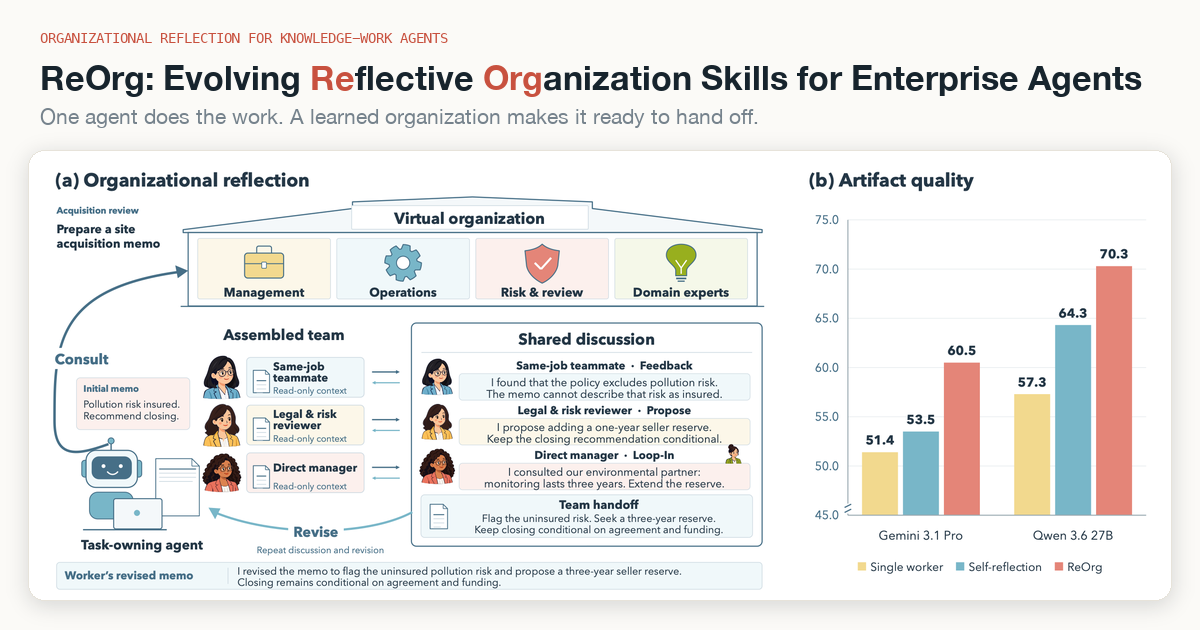
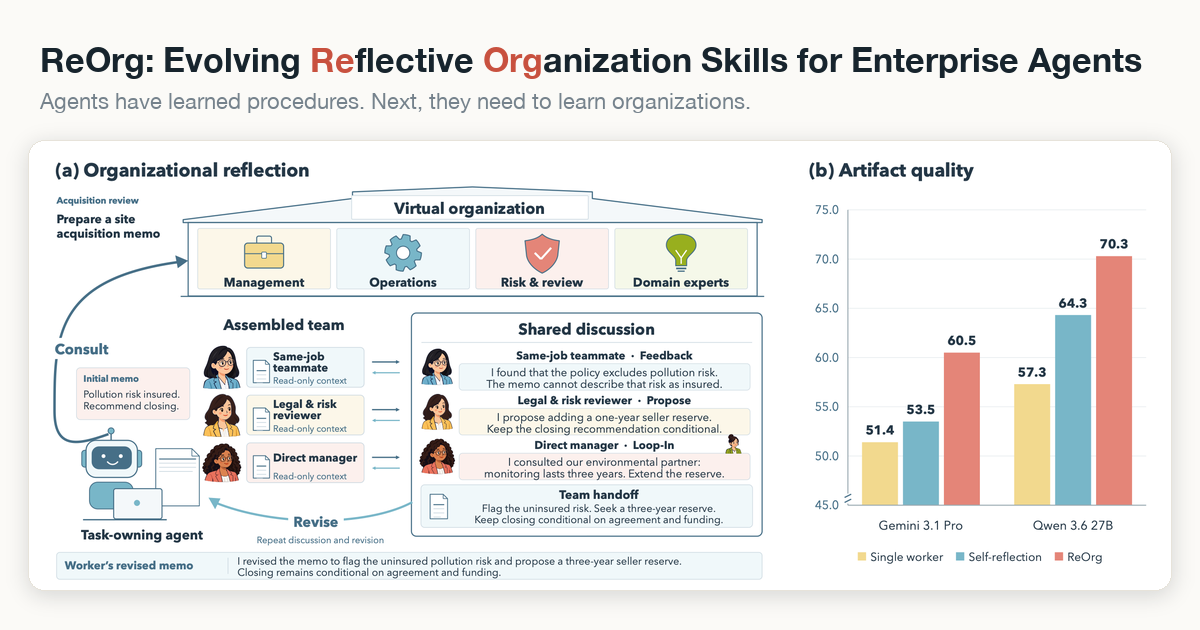
Frame around the virtual organization and organizational knowledge

diff --git a/index.html b/index.html
@@ -4,17 +4,17 @@
 <meta charset="utf-8">
 <meta name="viewport" content="width=device-width, initial-scale=1">
 <title>ReOrg: Evolving Reflective Organization Skills for Enterprise Agents</title>
-<meta name="description" content="ReOrg places one knowledge-work agent inside a virtual organization of simulated stakeholders, and learns reusable organizational reflection skills from unlabeled tasks.">
+<meta name="description" content="Agents have learned procedures. ReOrg places one agent inside a virtual organization and learns reusable organizational knowledge from unlabeled tasks.">
 <meta property="og:type" content="website">
 <meta property="og:title" content="ReOrg: Evolving Reflective Organization Skills for Enterprise Agents">
-<meta property="og:description" content="One agent does the work. A learned virtual organization makes it ready to hand off. +9.1 and +13.0 points on GDPval, learned from 20 unlabeled tasks.">
+<meta property="og:description" content="Agents have learned procedures. Next, they need to learn organizations. ReOrg learns organizational knowledge from 20 unlabeled tasks: +9.1 and +13.0 points on GDPval.">
 <meta property="og:url" content="https://reorg-harness.github.io/">
 <meta property="og:image" content="https://reorg-harness.github.io/assets/img/og.png">
 <meta property="og:image:width" content="1200">
 <meta property="og:image:height" content="630">
 <meta name="twitter:card" content="summary_large_image">
 <meta name="twitter:title" content="ReOrg: Evolving Reflective Organization Skills for Enterprise Agents">
-<meta name="twitter:description" content="One agent does the work. A learned virtual organization makes it ready to hand off.">
+<meta name="twitter:description" content="Agents have learned procedures. Next, they need to learn organizations.">
 <meta name="twitter:image" content="https://reorg-harness.github.io/assets/img/og.png">
 <meta name="theme-color" content="#FBFAF7" media="(prefers-color-scheme: light)">
 <meta name="theme-color" content="#0F1519" media="(prefers-color-scheme: dark)">
@@ -22,7 +22,7 @@
 <link rel="preconnect" href="https://fonts.googleapis.com">
 <link rel="preconnect" href="https://fonts.gstatic.com" crossorigin>
 <link href="https://fonts.googleapis.com/css2?family=Inter:wght@400;500;600;700&family=JetBrains+Mono:wght@400;500;600&family=Newsreader:ital,opsz,wght@1,6..72,400;1,6..72,500&display=swap" rel="stylesheet">
-<link rel="stylesheet" href="assets/css/style.css?v=5">
+<link rel="stylesheet" href="assets/css/style.css?v=6">
 <script>
   // Apply a saved theme before first paint.
   try { var t = localStorage.getItem('reorg-theme'); if (t) document.documentElement.setAttribute('data-theme', t); } catch (e) {}
@@ -65,7 +65,7 @@
   </p>
   <p class="affils"><sup>1</sup>University of California, Los Angeles <span class="dot">·</span> <sup>2</sup>Google Cloud AI Research</p>
 
-  <p class="tagline"><span class="muted">One agent does the work.</span><br>A learned organization makes it ready to hand off.</p>
+  <p class="tagline"><span class="muted">Agents have learned procedures.</span><br>Next, they need to learn organizations.</p>
 
   <div class="cta">
     <a class="btn btn-primary" href="#method">See a reflection round <span aria-hidden="true">→</span></a>
@@ -110,7 +110,7 @@
   <div class="two-col">
     <div class="prose">
       <p>Long-horizon agents can now write the memo, build the spreadsheet and draft the deck. Whether that artifact is ready for someone else depends on who reads it. A manager checks whether it answers the assignment. A legal reviewer checks what could go wrong when it is relied on. A teammate checks the numbers.</p>
-      <p>People get these perspectives from the organization around them. Agents usually get two choices: wait for a human to give more guidance, or critique their own work. In a pilot, feedback from a single simulated manager already beat the agent's own self-review.</p>
+      <p>People learn these perspectives from the organization around them. Agents don't. Today's agent memory stores procedures, the steps that worked last time, which helps finish a task but not judge whether it is ready. The usual fallback is self-review, and in a pilot, feedback from a single simulated manager already beat it.</p>
     </div>
     <figure class="card">
       <h3 class="chart-title">Pilot: GDPval win + tie rate (%), Gemini 3.1 Pro</h3>
@@ -125,21 +125,21 @@
   <div class="sec-head">
     <p class="sec-num">02 · The method</p>
     <h2>An agent in a <em>virtual organization</em>, just like humans.</h2>
-    <p class="lede">A planner assembles simulated stakeholders who inspect the current artifact and hand back their contributions. The worker alone revises the deliverable, for up to three rounds.</p>
+    <p class="lede">ReOrg surrounds one agent with a virtual organization: the roles that would weigh in on its work at a real company. Before handing off, the agent brings in the right perspectives, in the right order, and revises. It stays the only one doing the work.</p>
   </div>
 
   <div class="principles">
     <div class="card principle">
-      <h3>The worker owns the deliverable</h3>
-      <p>Stakeholders inspect files and check numbers with local tools in separate read-only contexts. They never edit the artifact.</p>
+      <h3>One agent does the work</h3>
+      <p>The organization only supplies perspectives. Each role reviews the work in a read-only context, and only the agent edits it.</p>
     </div>
     <div class="card principle">
-      <h3>Three ways to contribute</h3>
-      <p><span class="chip act-f">Feedback</span> flags defects and risks. <span class="chip act-p">Propose</span> suggests concrete changes. <span class="chip act-l">Loop-In</span> consults another colleague and returns a joint summary.</p>
+      <h3>Three ways a role weighs in</h3>
+      <p><span class="chip act-f">Feedback</span> flags defects and risks. <span class="chip act-p">Propose</span> suggests concrete changes. <span class="chip act-l">Loop-In</span> pulls in a second role and returns one combined view.</p>
     </div>
     <div class="card principle">
-      <h3>A skill is a small graph</h3>
-      <p>Each node pairs a stakeholder role with an action, and edges route contributions downstream. A skill stores no task content, so it can be reused on new tasks.</p>
+      <h3>Skills hold organizational knowledge</h3>
+      <p>A skill records which roles to involve and how their input builds up, never task content, so the same routine works on new tasks.</p>
     </div>
   </div>
 
@@ -164,12 +164,12 @@
           <div id="rGraph" class="round-graph"></div>
         </div>
         <div class="panel memo" id="rMemo">
-          <p class="label" id="rMemoTitle">Worker's memo</p>
+          <p class="label" id="rMemoTitle">Agent's memo</p>
           <div class="memo-body" id="rMemoBody"></div>
         </div>
       </div>
       <div class="panel round-right">
-        <p class="label">Discussion</p>
+        <p class="label">Perspectives</p>
         <div class="thread" id="rThread" aria-live="polite"></div>
       </div>
     </div>
@@ -185,9 +185,9 @@
 <!-- ============================== 03 LEARNING ============================== -->
 <section class="section wrap" id="learning">
   <div class="sec-head">
-    <p class="sec-num">03 · Learning without labels</p>
-    <h2>Learn <em>who to ask</em>, and how, from unlabeled tasks.</h2>
-    <p class="lede">ReOrg evolves a library of reflection skills on a stream of 20 unlabeled tasks. Every candidate skill is judged by the artifact it produces, not by its description, and no reference answers or rubrics are used.</p>
+    <p class="sec-num">03 · Learning</p>
+    <h2>Learning <em>organizational knowledge</em> without labels.</h2>
+    <p class="lede">ReOrg evolves a library of organizational skills on a stream of 20 unlabeled tasks. Each candidate skill is judged by the work it produces, with no reference answers or rubrics.</p>
   </div>
 
   <ol class="pipeline">
@@ -267,8 +267,22 @@
 <section class="section wrap" id="results">
   <div class="sec-head">
     <p class="sec-num">04 · Results</p>
-    <h2>Gains that <em>transfer</em> across domains and models.</h2>
-    <p class="lede">Libraries learned on 20 GDPval tasks are frozen, then tested on GDPval, JobBench and Harvey's Legal Agent Benchmark (LAB).</p>
+    <h2>Beyond <em>procedural knowledge</em>, across domains and models.</h2>
+    <p class="lede">Libraries learned on 20 GDPval tasks are frozen, then tested on GDPval, JobBench and Harvey's Legal Agent Benchmark (LAB), and compared with procedural-memory methods such as ReasoningBank, AWM and MemP.</p>
+  </div>
+
+  <div class="result">
+    <h3 class="takeaway">Organizational knowledge goes further than procedural knowledge: ReOrg beats the best procedural-memory method in <span class="hl">5 of 6 settings, by up to 10 points</span>.</h3>
+    <div class="card result-card">
+      <div class="chart-pair">
+        <div><h4 class="chart-title">Gemini 3.1 Pro</h4><div id="procGemini" class="chart" role="img" aria-label="Gemini 3.1 Pro, gain over the single worker in points. GDPval: best procedural method minus 1.1, ReOrg plus 9.1. JobBench: best procedural plus 2.5, ReOrg plus 2.3. LAB: best procedural plus 7.7, ReOrg plus 11.1."></div></div>
+        <div><h4 class="chart-title">Qwen 3.6 27B</h4><div id="procQwen" class="chart" role="img" aria-label="Qwen 3.6 27B, gain over the single worker in points. GDPval: best procedural method plus 3.2, ReOrg plus 13.0. JobBench: best procedural plus 0.7, ReOrg plus 2.2. LAB: best procedural plus 7.3, ReOrg plus 8.2."></div></div>
+      </div>
+      <div class="legend center">
+        <span><i style="background:var(--blue-deep)"></i>Best procedural-knowledge method</span>
+        <span><i style="background:var(--coral)"></i>ReOrg (organizational knowledge)</span>
+      </div>
+    </div>
   </div>
 
   <div class="result">
@@ -298,7 +312,7 @@
   <div class="result">
     <h3 class="takeaway">The gains cost compute: ReOrg scores highest but <span class="hl">uses more tokens per task</span> than the strongest baselines.</h3>
     <div class="card result-card">
-      <div class="cost-pair">
+      <div class="chart-pair">
         <div><h4 class="chart-title">Gemini 3.1 Pro</h4><div id="costGemini" class="chart" role="img" aria-label="Gemini 3.1 Pro: GDPval win plus tie rate against mean tokens per task."></div></div>
         <div><h4 class="chart-title">Qwen 3.6 27B</h4><div id="costQwen" class="chart" role="img" aria-label="Qwen 3.6 27B: GDPval win plus tie rate against mean tokens per task."></div></div>
       </div>
@@ -342,7 +356,7 @@
   </div>
 </footer>
 
-<script src="assets/js/library-data.js?v=5"></script>
-<script src="assets/js/main.js?v=5"></script>
+<script src="assets/js/library-data.js?v=6"></script>
+<script src="assets/js/main.js?v=6"></script>
 </body>
 </html>

diff --git a/assets/js/main.js b/assets/js/main.js
@@ -183,22 +183,22 @@
       { k: 'Revise', t: 'Worker revises' },
     ];
     const CAPTIONS = [
-      'The worker completes the task with its ordinary tools and produces a first draft, A₀.',
+      'The agent completes the task with its ordinary tools and produces a first draft.',
       'The planner reads the task and the work state, decides reflection is needed, and retrieves a skill from the frozen library.',
       'A same-job teammate inspects the memo and the source files in a read-only context, and flags a defect.',
       'The legal and risk reviewer sees the teammate’s contribution and proposes a concrete change.',
-      'The manager loops in an environmental partner, and the two return one consolidated discussion summary.',
-      'The contributions are combined into a compact handoff for the worker.',
-      'Only the worker edits the deliverable. The planner then stops, or retrieves another skill for the next round (up to three).',
+      'The manager loops in an environmental partner and returns one combined view.',
+      'The perspectives are combined into compact guidance for the agent.',
+      'Only the agent edits the deliverable. The planner then stops, or retrieves another skill for the next round (up to three).',
     ];
     const MSGS = [
       { cls: 'system', html: '<p><b>Task.</b> Prepare a site acquisition memo covering environmental risk and closing readiness.</p>' },
-      { cls: 'system', html: '<p><b>Planner.</b> The closing recommendation rests on an insurance assumption. Reflection needed, so it retrieves a three-stakeholder skill.</p>' },
+      { cls: 'system', html: '<p><b>Planner.</b> The closing recommendation rests on an insurance assumption. Reflection needed, so it retrieves an organizational skill from the library.</p>' },
       { role: 'same_job_teammate', act: 'feedback', text: 'I found that the policy excludes pollution risk. The memo cannot describe that risk as insured.' },
       { role: 'legal_risk_reviewer', act: 'propose', text: 'I propose adding a one-year seller reserve. Keep the closing recommendation conditional.' },
       { role: 'direct_manager', act: 'loop_in', sub: 'with Environmental partner (domain expert)', text: 'I consulted our environmental partner: monitoring lasts three years. Extend the reserve.' },
-      { cls: 'handoff', head: 'Team handoff', text: 'Flag the uninsured risk. Seek a three-year reserve. Keep closing conditional on agreement and funding.' },
-      { cls: 'worker', head: 'Worker', text: 'I revised the memo to flag the uninsured pollution risk and propose a three-year seller reserve. Closing remains conditional on agreement and funding.' },
+      { cls: 'handoff', head: 'Combined guidance', text: 'Flag the uninsured risk. Seek a three-year reserve. Keep closing conditional on agreement and funding.' },
+      { cls: 'worker', head: 'Agent', text: 'I revised the memo to flag the uninsured pollution risk and propose a three-year seller reserve. Closing remains conditional on agreement and funding.' },
     ];
     const AV = { same_job_teammate: 'var(--yellow)', legal_risk_reviewer: 'var(--blue-light)', direct_manager: 'var(--coral)' };
 
@@ -286,7 +286,7 @@
     }
     function renderMemo() {
       const revised = step >= 6;
-      $('#rMemoTitle').textContent = revised ? 'Worker’s memo, revised' : 'Worker’s memo, first draft';
+      $('#rMemoTitle').textContent = revised ? 'Agent’s memo, revised' : 'Agent’s memo, first draft';
       $('#rMemoBody').innerHTML = MEMO.map(l => `<div class="memo-line${revised ? ' added' : ''}"><span class="k">${l.k}</span><span>${revised ? l.b : l.a}</span></div>`).join('');
     }
     function go(i) {
@@ -613,6 +613,50 @@
     });
     t.innerHTML = html + '</tbody>';
   })();
+
+  // Procedural vs organizational knowledge: gain over the single worker, derived from MAIN.
+  function procData(model) {
+    const off = model === 'gemini' ? 0 : 3;
+    const single = MAIN.find(r => r.fam === 'single');
+    const ours = MAIN.filter(r => r.fam === 'ours').pop();
+    const procs = MAIN.filter(r => r.fam === 'proc');
+    return ['GDPval', 'JobBench', 'LAB'].map((bench, j) => {
+      const c = off + j;
+      const best = procs.reduce((a, b) => (b.v[c] > a.v[c] ? b : a));
+      return { bench, s: single.v[c], pm: best.name, pa: best.v[c], p: best.v[c] - single.v[c], ra: ours.v[c], r: ours.v[c] - single.v[c] };
+    });
+  }
+  function procChart(w, model) {
+    const data = procData(model);
+    const H = w < 420 ? 250 : 270;
+    const m = { l: 34, r: 8, t: 22, b: 30 };
+    const svg = svgRoot(w, H);
+    const iw = w - m.l - m.r, ih = H - m.t - m.b;
+    const y0 = -2, y1 = 14;
+    const Y = v => m.t + ih - (v - y0) / (y1 - y0) * ih;
+    for (let v = y0; v <= y1; v += 2) {
+      el('line', { x1: m.l, x2: w - m.r, y1: Y(v), y2: Y(v), stroke: v === 0 ? 'var(--ink-3)' : 'var(--line)', 'stroke-dasharray': v === 0 ? null : '3 4' }, svg);
+      el('text', { x: m.l - 7, y: Y(v) + 4, 'text-anchor': 'end', 'font-size': 11, fill: 'var(--ink-3)', text: v > 0 ? '+' + v : v }, svg);
+    }
+    const gw = iw / data.length, bw = Math.min(44, gw * 0.3), gap = 6;
+    data.forEach((d, i) => {
+      const cx = m.l + gw * i + gw / 2;
+      [[d.p, 'var(--blue-deep)', `Best procedural method (${d.pm}): ${d.pa.toFixed(1)} vs. ${d.s.toFixed(1)} for the single worker`],
+       [d.r, 'var(--coral)', `ReOrg: ${d.ra.toFixed(1)} vs. ${d.s.toFixed(1)} for the single worker`]].forEach(([v, color, tip], k) => {
+        const x = cx + (k === 0 ? -bw - gap / 2 : gap / 2);
+        const top = Math.min(Y(v), Y(0)), hgt = Math.abs(Y(v) - Y(0));
+        const r = el('rect', { x, y: top, width: bw, height: Math.max(1, hgt), rx: 3, fill: color }, svg);
+        el('title', { text: tip }, r);
+        const label = (v >= 0 ? '+' : '−') + Math.abs(v).toFixed(1);
+        el('text', { x: x + bw / 2, y: v >= 0 ? Y(v) - 6 : Y(v) + 14, 'text-anchor': 'middle', 'font-size': 12.5, 'font-weight': k === 1 ? 700 : 600, fill: k === 1 ? 'var(--coral-ink)' : 'var(--ink-2)', text: label }, svg);
+      });
+      el('text', { x: cx, y: H - m.b + 20, 'text-anchor': 'middle', 'font-size': 13, 'font-weight': 600, fill: 'var(--ink)', text: d.bench }, svg);
+    });
+    el('text', { x: m.l, y: 11, 'font-size': 12.5, fill: 'var(--ink-2)', text: 'Gain over single worker (points)' }, svg);
+    return svg;
+  }
+  mount($('#procGemini'), w => procChart(w, 'gemini'));
+  mount($('#procQwen'), w => procChart(w, 'qwen'));
 
   function heatmap(vals) {
     return function (w) {

diff --git a/assets/css/style.css b/assets/css/style.css
@@ -277,7 +277,7 @@ input[type=range] { width: 100%; margin: 12px 0 2px; accent-color: var(--coral-i
 .takeaway .hl { color: var(--coral-ink); }
 .result-card { padding: 22px; }
 .result-note { font-size: 14px; color: var(--ink-3); margin: 12px 0 0; }
-.cost-pair { display: grid; grid-template-columns: 1fr 1fr; gap: 28px; }
+.chart-pair { display: grid; grid-template-columns: 1fr 1fr; gap: 28px; }
 .table-wrap { overflow-x: auto; -webkit-overflow-scrolling: touch; }
 table.results { width: 100%; border-collapse: collapse; font-size: 14px; min-width: 640px; font-variant-numeric: tabular-nums; }
 table.results th, table.results td { padding: 8px 10px; text-align: right; border-bottom: 1px solid var(--line); }
@@ -347,7 +347,7 @@ table.results tr.ours td { color: var(--ink); }
   .section { padding-top: 64px; }
   .steps { grid-template-columns: repeat(7, auto); overflow-x: auto; scrollbar-width: none; }
   .steps li { font-size: 13.5px; }
-  .cost-pair { grid-template-columns: 1fr; gap: 20px; }
+  .chart-pair { grid-template-columns: 1fr; gap: 20px; }
   .scrub-row { flex-wrap: wrap; gap: 10px 12px; }
   .scrub-info { order: 3; flex-basis: 100%; }
   .scrub-count { margin-left: auto; }
